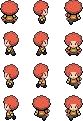
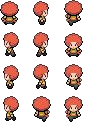
[ADD] tile pos on click, change sprites for easiness later, change of variables names, remove printfs (in gui), no norm for now

diff --git a/gui/src/graphics/draw.c b/gui/src/graphics/draw.c
@@ -9,6 +9,7 @@
 
 static const char *paths[] = {
     "gui/resources/grass.png",
+    "gui/resources/chicken.png",
     "gui/resources/linemate.png",
     "gui/resources/deraumer.png",
     "gui/resources/sibur.png",
@@ -46,14 +47,11 @@ void unload_textures(Texture *textures)
     free(textures);
 }
 
-void draw_player(map_t tile, int ratio, Vector2 position)
+void draw_player(map_t tile, int ratio, pos_t position)
 {
-    Texture texture;
-
     if (tile.player) {
-        texture = get_textures()[7 + tile.player->level];
-        DrawTexturePro(texture,
-        (Rectangle){0, 0, texture.width, texture.width},
+        DrawTexturePro(get_textures()[8 + tile.player->level],
+        (Rectangle){0, 0, 25, 30},
         (Rectangle){position.x, position.y, ratio, ratio},
         (Vector2){0, 0},
         0, WHITE);
@@ -62,14 +60,30 @@ void draw_player(map_t tile, int ratio, Vector2 position)
 
 void draw_inventory(client_t *client, pos_t size, pos_t edge)
 {
-    Vector2 tile = {(GetMousePosition().x - edge.x) * client->size_map.x / size.x,
-        (GetMousePosition().y - edge.y) * client->size_map.y / size.y};
+    Vector2 pos = GetMousePosition();
+    pos_t tile = {(pos.x - edge.x) * client->size_map.x / size.x,
+        (pos.y - edge.y) * client->size_map.y / size.y};
 
-    printf("%f %f\n", tile.x, tile.y);
-    if (IsMouseButtonPressed(MOUSE_BUTTON_LEFT)) {
-
+    if (IsMouseButtonPressed(MOUSE_BUTTON_LEFT) && 0 <= tile.x && tile.x <
+        client->size_map.x && 0 <= tile.y && tile.y < client->size_map.y) {
+        client->map[tile.y][tile.x].clicked = !client->map[tile.y][tile.x].clicked;
+        for (int y = 0; y < client->size_map.y; y++)
+            for (int x = 0; x < client->size_map.x; x++)
+                if (!(y == tile.y && x == tile.x))
+                    client->map[y][x].clicked = false;
     }
+    for (int y = 0; y < client->size_map.y; y++)
+        for (int x = 0; x < client->size_map.x; x++)
+            if (client->map[y][x].clicked) {
+                DrawText(TextFormat("Tile [%d;%d]", y, x), 0, 0, 30, BLACK);
+                DrawText(TextFormat("Tile [%d;%d]", y, x), edge.x + size.x, 0, 30, BLACK);
+                // for (int level = 1; level <= 7; level++) {
+                //     DrawTexturePro(get_textures()[8 + level], )
+                // }
+                return;
+            }
 }
+    
 
 void draw_map(client_t *client)
 {
@@ -79,17 +93,18 @@ void draw_map(client_t *client)
     pos_t edge = {(size.x - client->size_map.x * ratio) / 2,
         (size.y - client->size_map.y * ratio) / 2};
 
-    for (int i = 0; i < client->size_map.y; i++) {
-        for (int j = 0; j < client->size_map.x; j++) {
+    for (int y = 0; y < client->size_map.y; y++) {
+        for (int x = 0; x < client->size_map.x; x++) {
             DrawTexturePro(get_textures()[0],
             (Rectangle){0, 0, get_textures()[0].width, get_textures()[0].height},
-            (Rectangle){edge.x + i * ratio, edge.y + j * ratio, ratio, ratio},
+            (Rectangle){edge.x + x * ratio, edge.y + y * ratio, ratio, ratio},
             (Vector2){0, 0}, 0, RAYWHITE);
-            draw_player(client->map[i][j], ratio, (Vector2){edge.x + i * ratio,
-            edge.y + j * ratio});
+            draw_player(client->map[y][x], ratio, (pos_t){edge.x + x * ratio,
+            edge.y + y * ratio});
         }
     }
-    draw_inventory(client, size, edge);
+    draw_inventory(client,
+        (pos_t){client->size_map.x * ratio, client->size_map.y * ratio}, edge);
 }
 
 void draw_all(client_t *client)

diff --git a/gui/src/parse_ret.c b/gui/src/parse_ret.c
@@ -71,14 +71,14 @@ bool parse_return(client_t *client, char *str)
     char *command_name = NULL;
     char *arg = NULL;
 
-    printf("response [%s]\n", str);
+    //printf("response [%s]\n", str);
     if (strcmp(str, "WELCOME") == 0)
         return (init_header(client));
     if (!(command_name = get_command_name(str)))
         return false;
     arg = (strcmp(command_name, "suc") == 0 || strcmp(command_name, "sbp") == 0)
         ? strdup(str) : get_command_arg(str);
-    printf("[%s]\n", command_name);
+    //printf("[%s]\n", command_name);
     for (int i = 0; com[i].cmd != NULL; i++) {
         if (strcmp(com[i].cmd, command_name) == 0) {
             com[i].func_ptr(client, arg);

diff --git a/gui/src/send_message.c b/gui/src/send_message.c
@@ -19,8 +19,8 @@ bool send_message(list_t *pending, list_t *list, socket_t *socket, char *mess)
         return false;
     if (pending && list_push_data(pending, strdup(mess)) == -1)
         return false;
-    printf("message send [%s] to fd [%d]\n",
-        mess,
-        ((socket_t *)((command_t *)list->head->data)->socks->head->data)->fd);
+    //printf("message send [%s] to fd [%d]\n",
+        // mess,
+        // ((socket_t *)((command_t *)list->head->data)->socks->head->data)->fd);
     return true;
 }

diff --git a/gui/src/print_info.c b/gui/src/print_info.c
@@ -9,11 +9,11 @@
 
 void print_team(list_t *team)
 {
-    node_t *node;
+    // node_t *node;
 
-    foreach (team->head, node)
-        printf("[%s] ", (char *)node->data);
-    printf("\n");
+    // foreach (team->head, node)
+    //     printf("[%s] ", (char *)node->data);
+    // printf("\n");
 }
 
 void print_inventory_map(client_t *client)

diff --git a/ai/src/handle_map.c b/ai/src/handle_map.c
@@ -47,9 +47,11 @@ static bool split_create_map(map_t *map, size_t x)
         map[i].player = NULL;
         if (!map[i].inv)
             return false;
+        map[i].clicked = false;
     }
     map[i].player = NULL;
     map[i].inv = NULL;
+    map[i].clicked = false;
     return true;
 }
 

diff --git a/ai/include/zappy_ai.h b/ai/include/zappy_ai.h
@@ -85,6 +85,7 @@ typedef struct player_s {
 typedef struct map_s {
     inventory_t *inv;
     player_t *player;
+    bool clicked;
 } map_t;
 
 typedef struct client_s {

diff --git a/gui/include/zappy_gui.h b/gui/include/zappy_gui.h
@@ -79,6 +79,7 @@ typedef struct player_s {
 typedef struct map_s {
     inventory_t *inv;
     player_t *player;
+    bool clicked;
 } map_t;
 
 typedef struct client_s {
